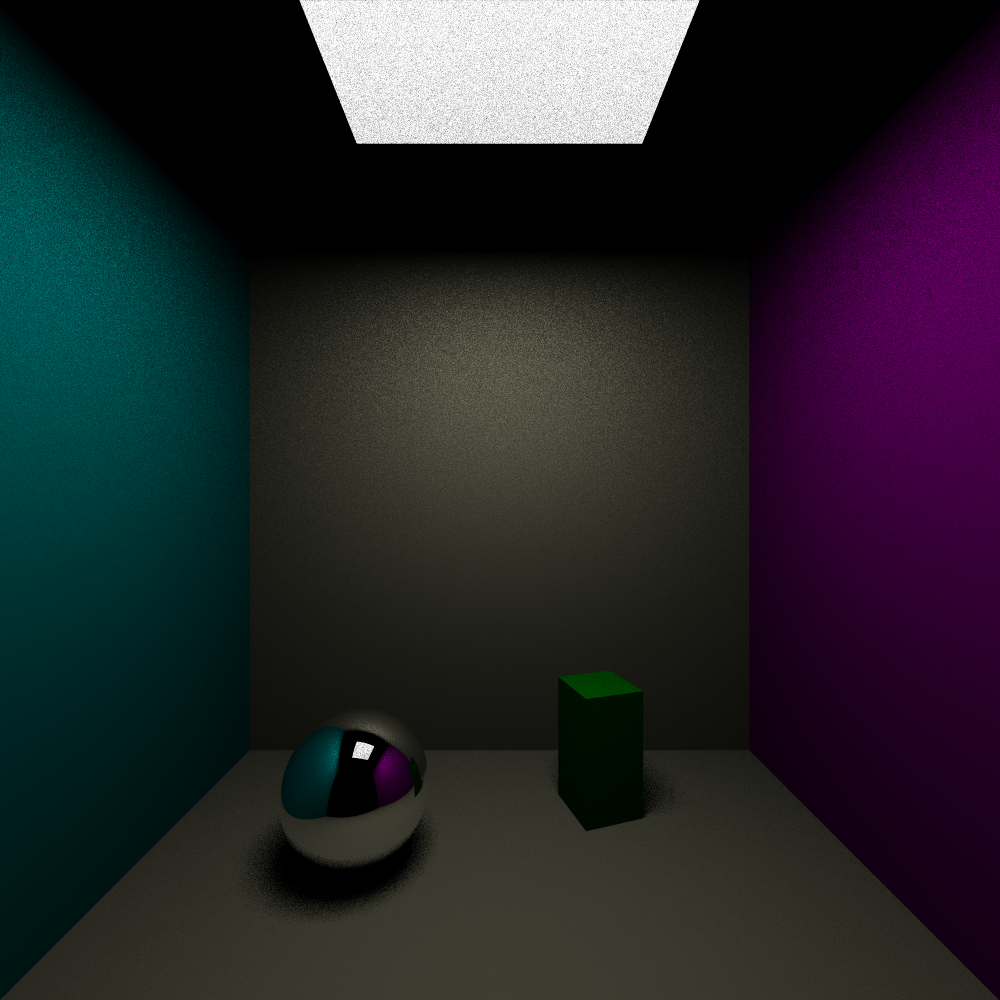
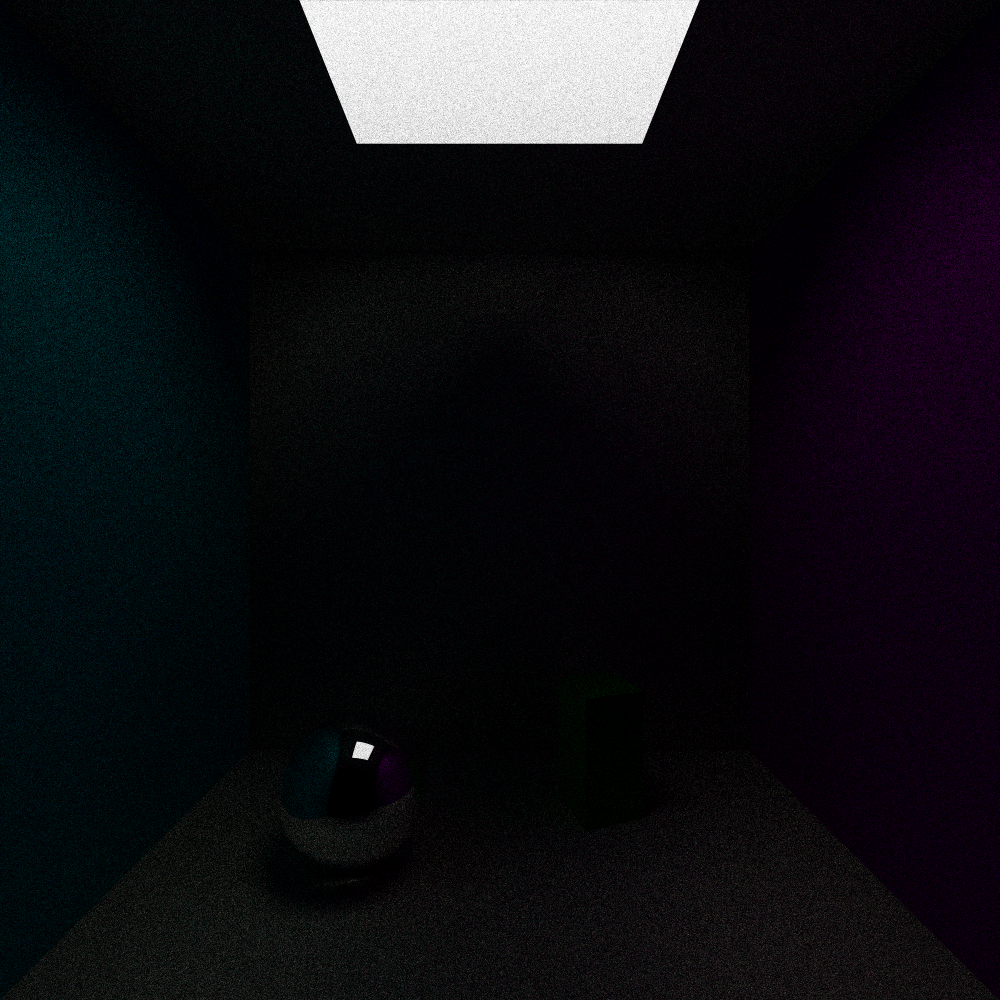
add naive pathtracing integrator

diff --git a/src/tracer/integrators.rs b/src/tracer/integrators.rs
@@ -1,6 +1,6 @@
 use crate::DVec3;
 use crate::rand_utils;
-use crate::consts::INTEGRATION_MAX_DEPTH;
+use crate::consts::PATH_TRACE_MAX_DEPTH;
 use crate::pdfs::{Pdf, ObjectPdf, CosPdf};
 use crate::tracer::hit::Hit;
 use crate::tracer::ray::Ray;
@@ -10,8 +10,78 @@ pub trait Integrator {
     fn integrate(&self, r: &Ray, depth: usize) -> DVec3;
 }
 
+pub struct PathTracingIntegrator {
+    scene: Scene,
+}
+
+impl Integrator for PathTracingIntegrator {
+    fn integrate(&self, r: &Ray, depth: usize) -> DVec3 {
+        if depth > PATH_TRACE_MAX_DEPTH {
+            return DVec3::ZERO;
+        }
+
+        match self.scene.hit(r) {
+            None => DVec3::new(0.0, 1.0, 0.0),
+            Some(h) => {
+                let material = h.object.material();
+
+                match material.bsdf(&h, r) {
+                    Some(sr) => self.integrate(&sr, depth + 1),
+                    None => {
+                        let pdf_scatter = CosPdf::new(h.norm);
+                        let r = Ray::new(
+                            h.p,
+                            pdf_scatter.generate_dir(
+                                rand_utils::rand_unit_square()
+                            ),
+                        );
+
+                        material.emit(&h)
+                            + material.albedo_at(h.p)
+                            * self.integrate(&r, depth + 1)
+                            * h.norm.dot(r.dir.normalize())
+                    }
+                }
+            }
+        }
+    }
+}
+
+impl PathTracingIntegrator {
+    pub fn new(s: Scene) -> Self {
+        Self {
+            scene: s,
+        }
+    }
+}
+
 pub struct DirectLightingIntegrator {
     scene: Scene,
+}
+
+impl Integrator for DirectLightingIntegrator {
+    fn integrate(&self, r: &Ray, depth: usize) -> DVec3 {
+        /* put this here incase mirrors reflect from each other until infinity */
+        if depth > PATH_TRACE_MAX_DEPTH {
+            return DVec3::ZERO;
+        }
+
+        match self.scene.hit(r) {
+            None => DVec3::new(0.0, 1.0, 0.0),
+            Some(h) => {
+                let material = h.object.material();
+                match material.bsdf(&h, r) {
+                    Some(sr) => self.integrate(&sr, depth + 1),
+                    None => {
+                        material.emit(&h)
+                            + material.albedo_at(h.p)
+                            * self.light_at(&h)
+
+                    }
+                }
+            }
+        }
+    }
 }
 
 impl DirectLightingIntegrator {
@@ -40,30 +110,6 @@ impl DirectLightingIntegrator {
             Some(_lh) => {
                 5.0 * pdf_scatter.pdf_val(r.dir)
                     / pdf_light.pdf_val(r.dir)
-            }
-        }
-    }
-}
-
-impl Integrator for DirectLightingIntegrator {
-    fn integrate(&self, r: &Ray, depth: usize) -> DVec3 {
-        if depth > INTEGRATION_MAX_DEPTH {
-            return DVec3::ZERO;
-        }
-
-        match self.scene.hit(r) {
-            None => DVec3::new(0.0, 1.0, 0.0),
-            Some(h) => {
-                let material = h.object.material();
-                match material.bsdf(&h, r) {
-                    Some(sr) => self.integrate(&sr, depth + 1),
-                    None => {
-                        material.emit(&h)
-                            + material.albedo_at(h.p)
-                            * self.light_at(&h)
-
-                    }
-                }
             }
         }
     }

diff --git a/src/renderer.rs b/src/renderer.rs
@@ -4,10 +4,11 @@ use rayon::iter::{ParallelIterator, IntoParallelIterator};
 use crate::samplers::{JitteredSampler, UniformSampler};
 use crate::tracer::scene::Scene;
 use crate::tracer::camera::Camera;
-use crate::tracer::integrators::{Integrator, DirectLightingIntegrator};
+use crate::tracer::integrators::{Integrator, DirectLightingIntegrator, PathTracingIntegrator};
 
 type PxSampler = JitteredSampler;
-type Intgrtr = DirectLightingIntegrator;
+//type Intgrtr = DirectLightingIntegrator;
+type Intgrtr = PathTracingIntegrator;
 
 pub fn _render(
     img_height: usize,

diff --git a/src/consts.rs b/src/consts.rs
@@ -10,8 +10,8 @@ pub const SHADOW_RAYS: usize = 4*4;
 /* refraction pub constant of glass */
 pub const ETA: f64 = 1.5;
 
-/* maximum recursion depth of rays */
-pub const INTEGRATION_MAX_DEPTH: usize = 25;
+/* maximum recursion depth of path tracing */
+pub const PATH_TRACE_MAX_DEPTH: usize = 5;
 
 /* add these to material itself? */
 /* specular lobe coefficient. smaller = bigger lobe */
